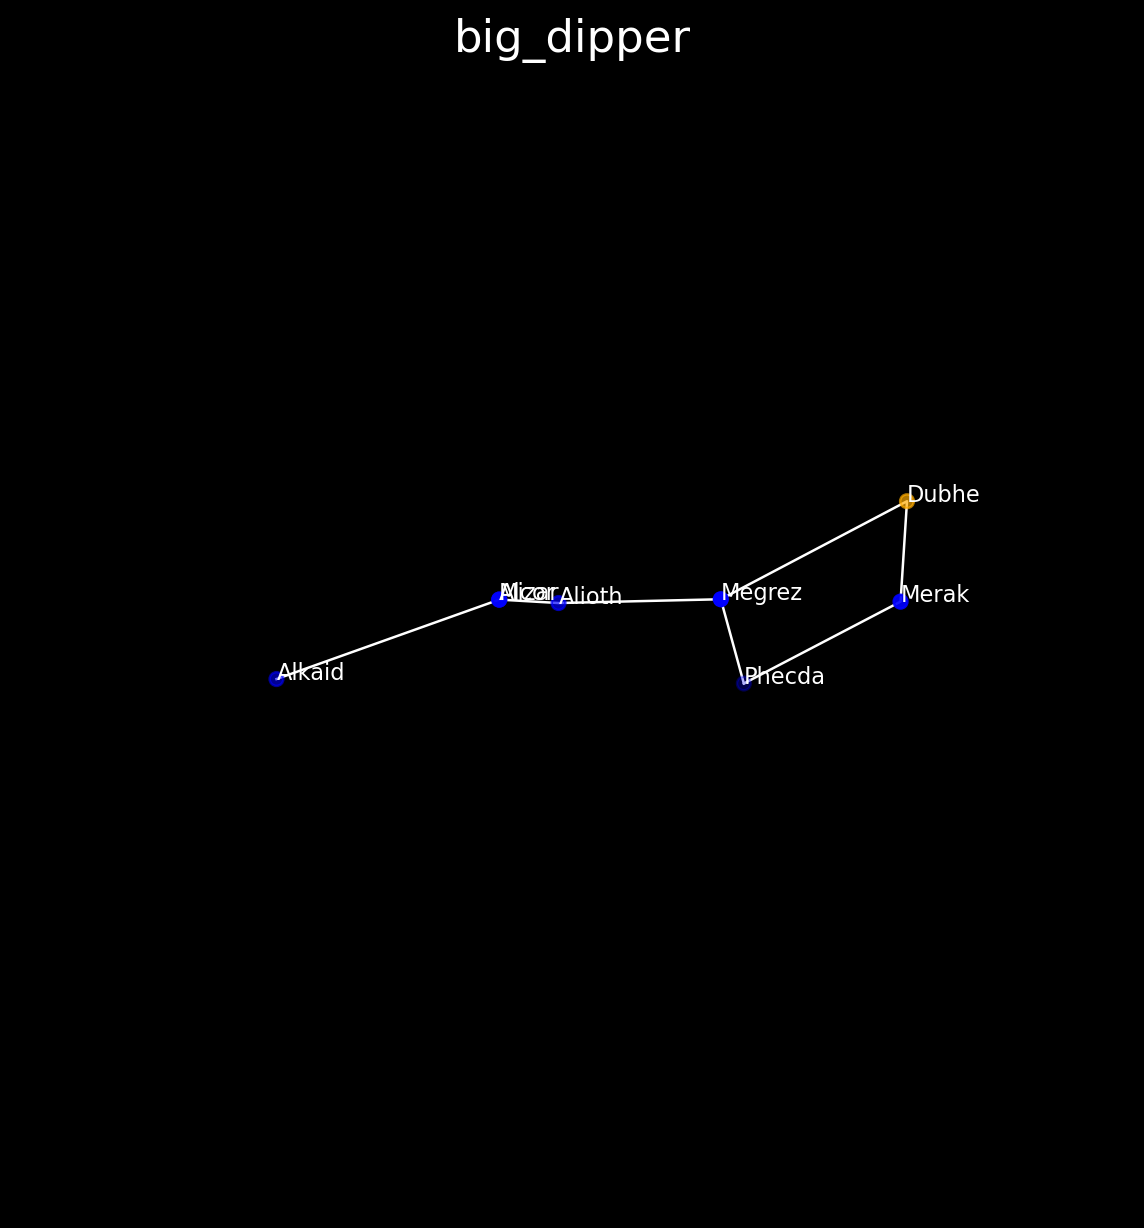
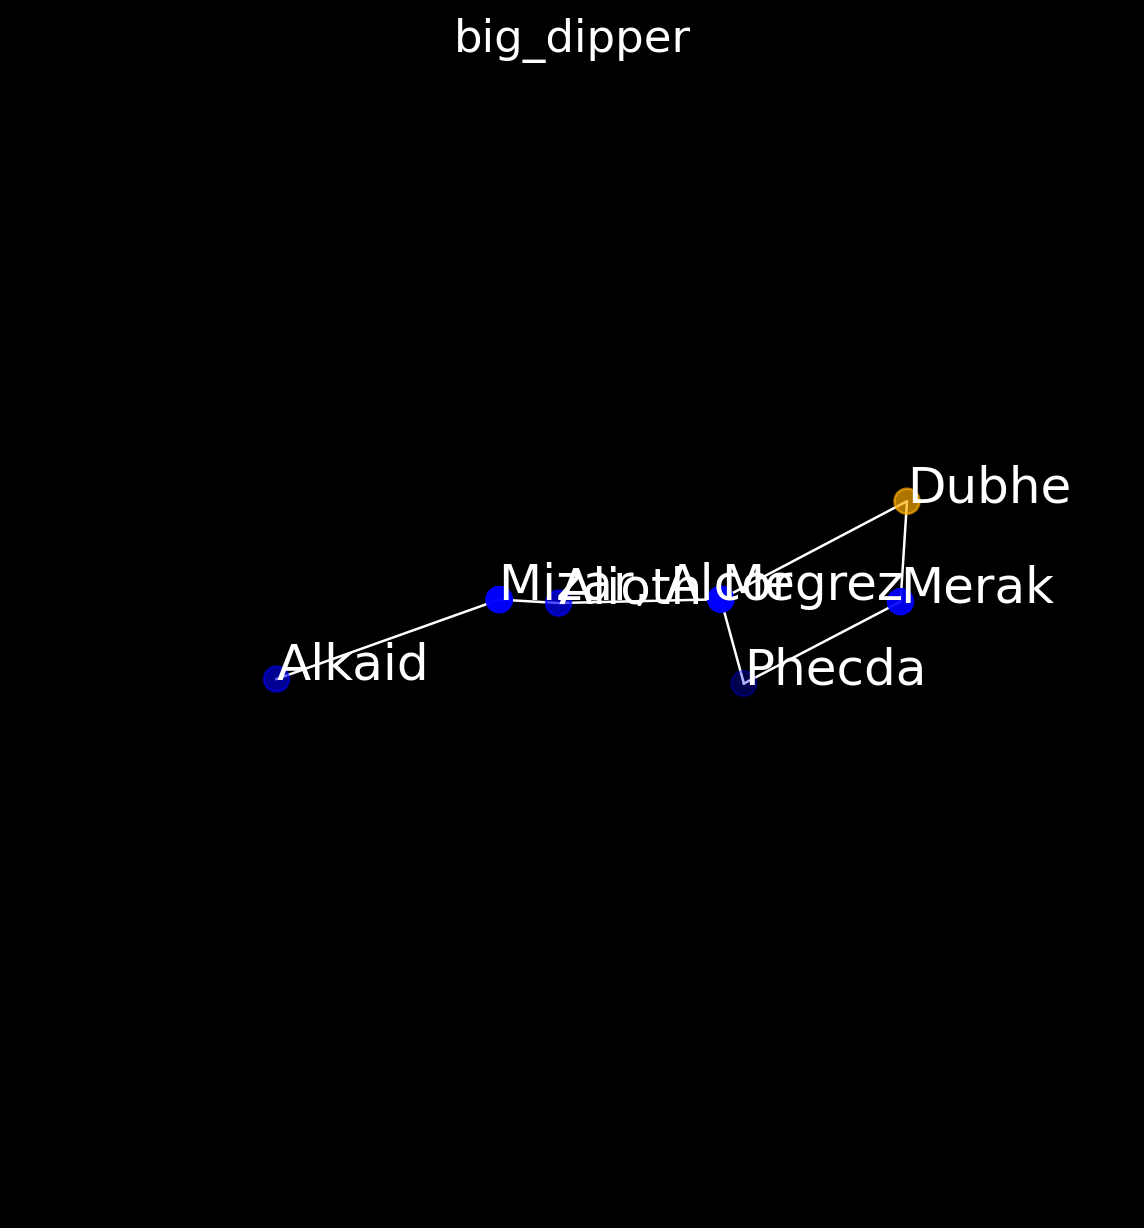
close name labelling

diff --git a/src/plotter.py b/src/plotter.py
@@ -8,7 +8,7 @@ import os
 
 def star_size(x):
     if len(x) < 10:
-        return 30
+        return 100
     else:
         return 15
 
@@ -23,11 +23,28 @@ def draw_line_between_stars(ax, star_names, star_coords, star1, star2, color='wh
                 [star_coords['z'][index_star1], star_coords['z'][index_star2]],
                 color=color, linewidth=linewidth)
 
+def combine_labels(x, y, labels, threshold=0.05):
+    n = len(x)
+    combined_labels = labels.copy()
+    combined = set()  # to keep track of indices that have been combined
+
+    for i in range(n):
+        for j in range(i + 1, n):
+            if i not in combined and j not in combined:
+                # calculate the distance between points i and j
+                distance = np.sqrt((x[i] - x[j])**2 + (y[i] - y[j])**2)
+
+                if distance < threshold:
+                    # combine labels and assign to the first point
+                    combined_labels[i] = f'{labels[i]}, {labels[j]}'
+                    combined_labels[j] = ''  # empty label for the other point
+                    combined.add(i)
+                    combined.add(j)
+
+    return combined_labels
+
 def plot_3d_scatter(x, y, z, rgb, star_names=None, title=None, view=None, lines=True, grid_lines=True):
-    '''
-    Creates a 3D plot using Cartesian coordinates with a black background,
-    white points, grey axes, and black grid panes.
-    '''
+ 
     # create figure
     fig = plt.figure(figsize=(10, 8))
     fig.set_facecolor('black')
@@ -44,9 +61,9 @@ def plot_3d_scatter(x, y, z, rgb, star_names=None, title=None, view=None, lines=
 
     # add annotations if star names are provided
     if star_names is not None:
+        combined_star_names = combine_labels(x, y, list(star_names), threshold=1)
         for i in range(len(x)):
-            ax.text(x[i], y[i], z[i], star_names[i], color='white', fontsize=9)
-
+            ax.text(x[i], y[i], z[i], combined_star_names[i], color='white', fontsize=20)
 
     # draw lines connecting the stars
     if lines == True:

diff --git a/src/main.py b/src/main.py
@@ -14,10 +14,10 @@ process_asterisms = True
 process_constellations = False
 process_all_stars = False
 
-# lists of functions for asterisms and constellations
-asterism_functions = [big_dipper, little_dipper, summer_triangle, orions_belt]
+# lists of functions for asterisms and constellations#
+#asterism_functions = [big_dipper, little_dipper, summer_triangle, orions_belt]
 
-#asterism_functions = [big_dipper] # for testing
+asterism_functions = [big_dipper] # for testing
 
 constellation_functions = [ursa_major, ursa_minor]
 
